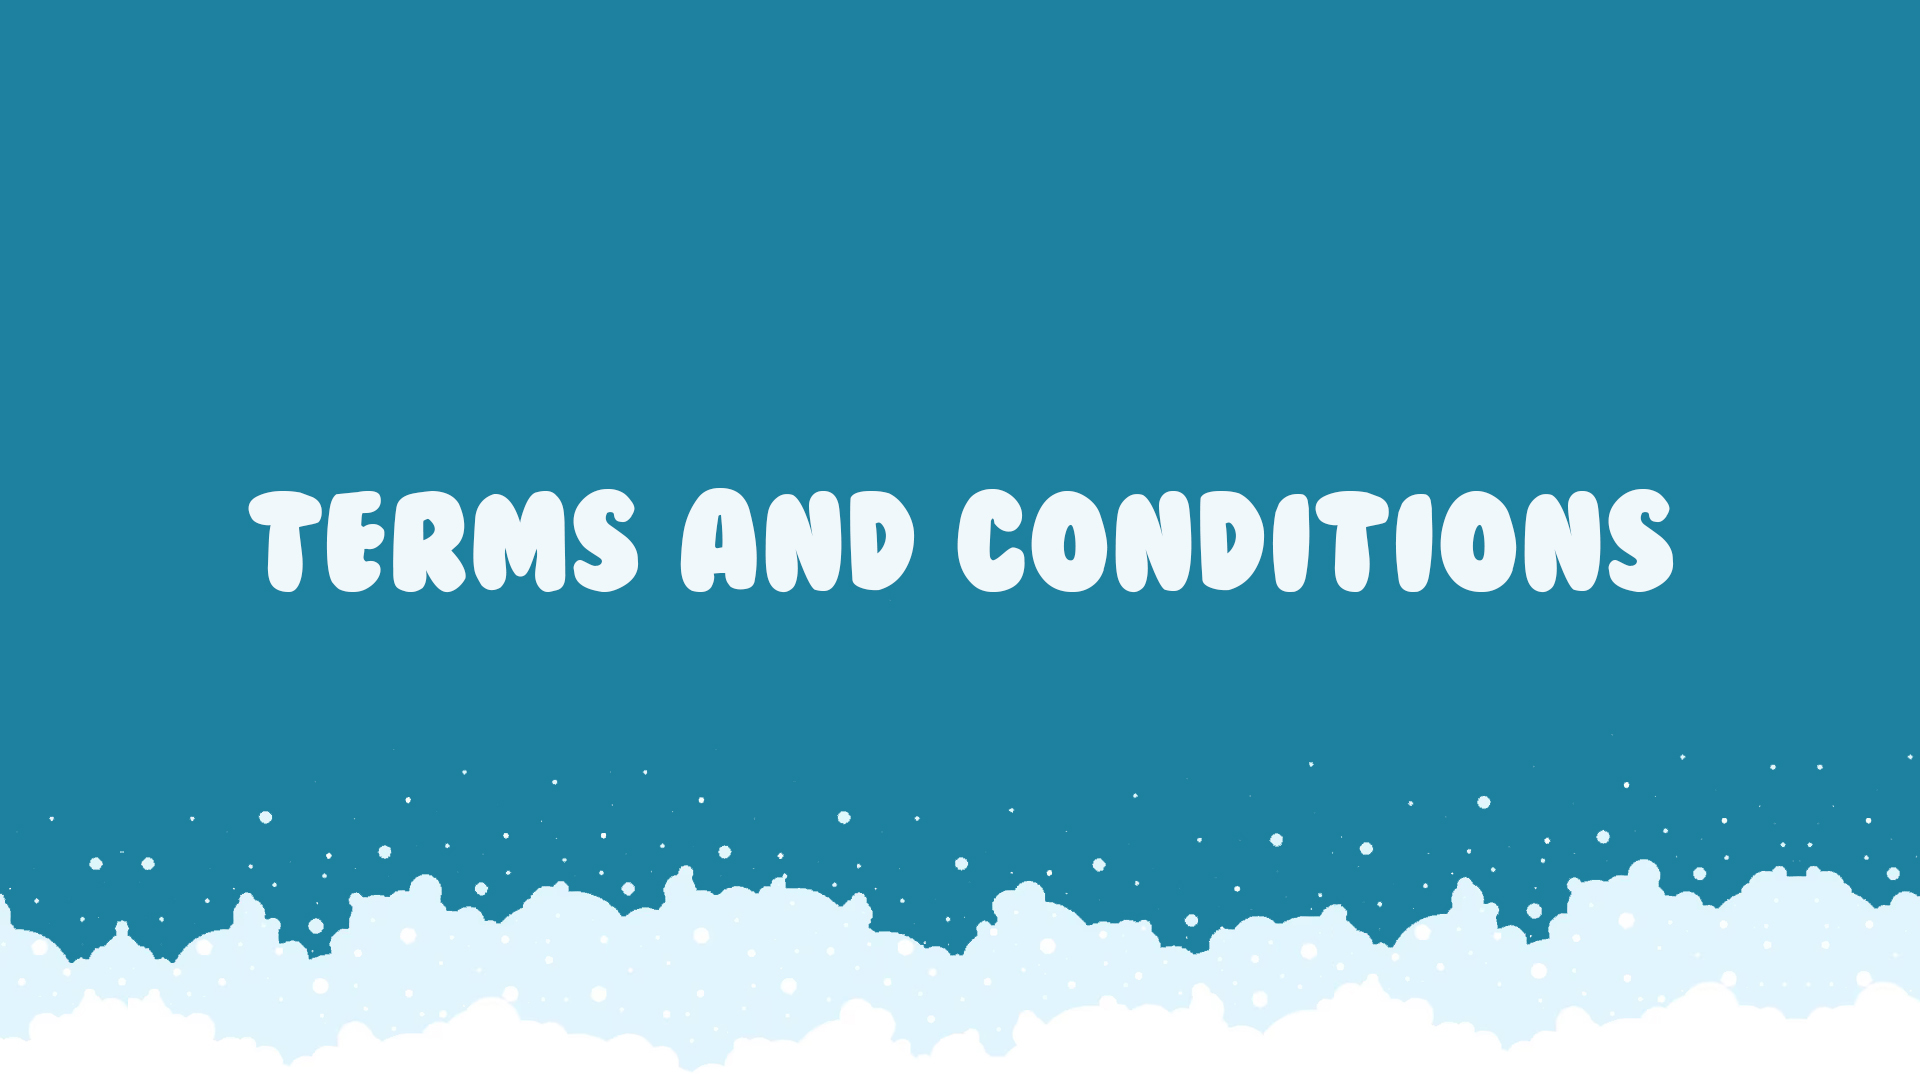
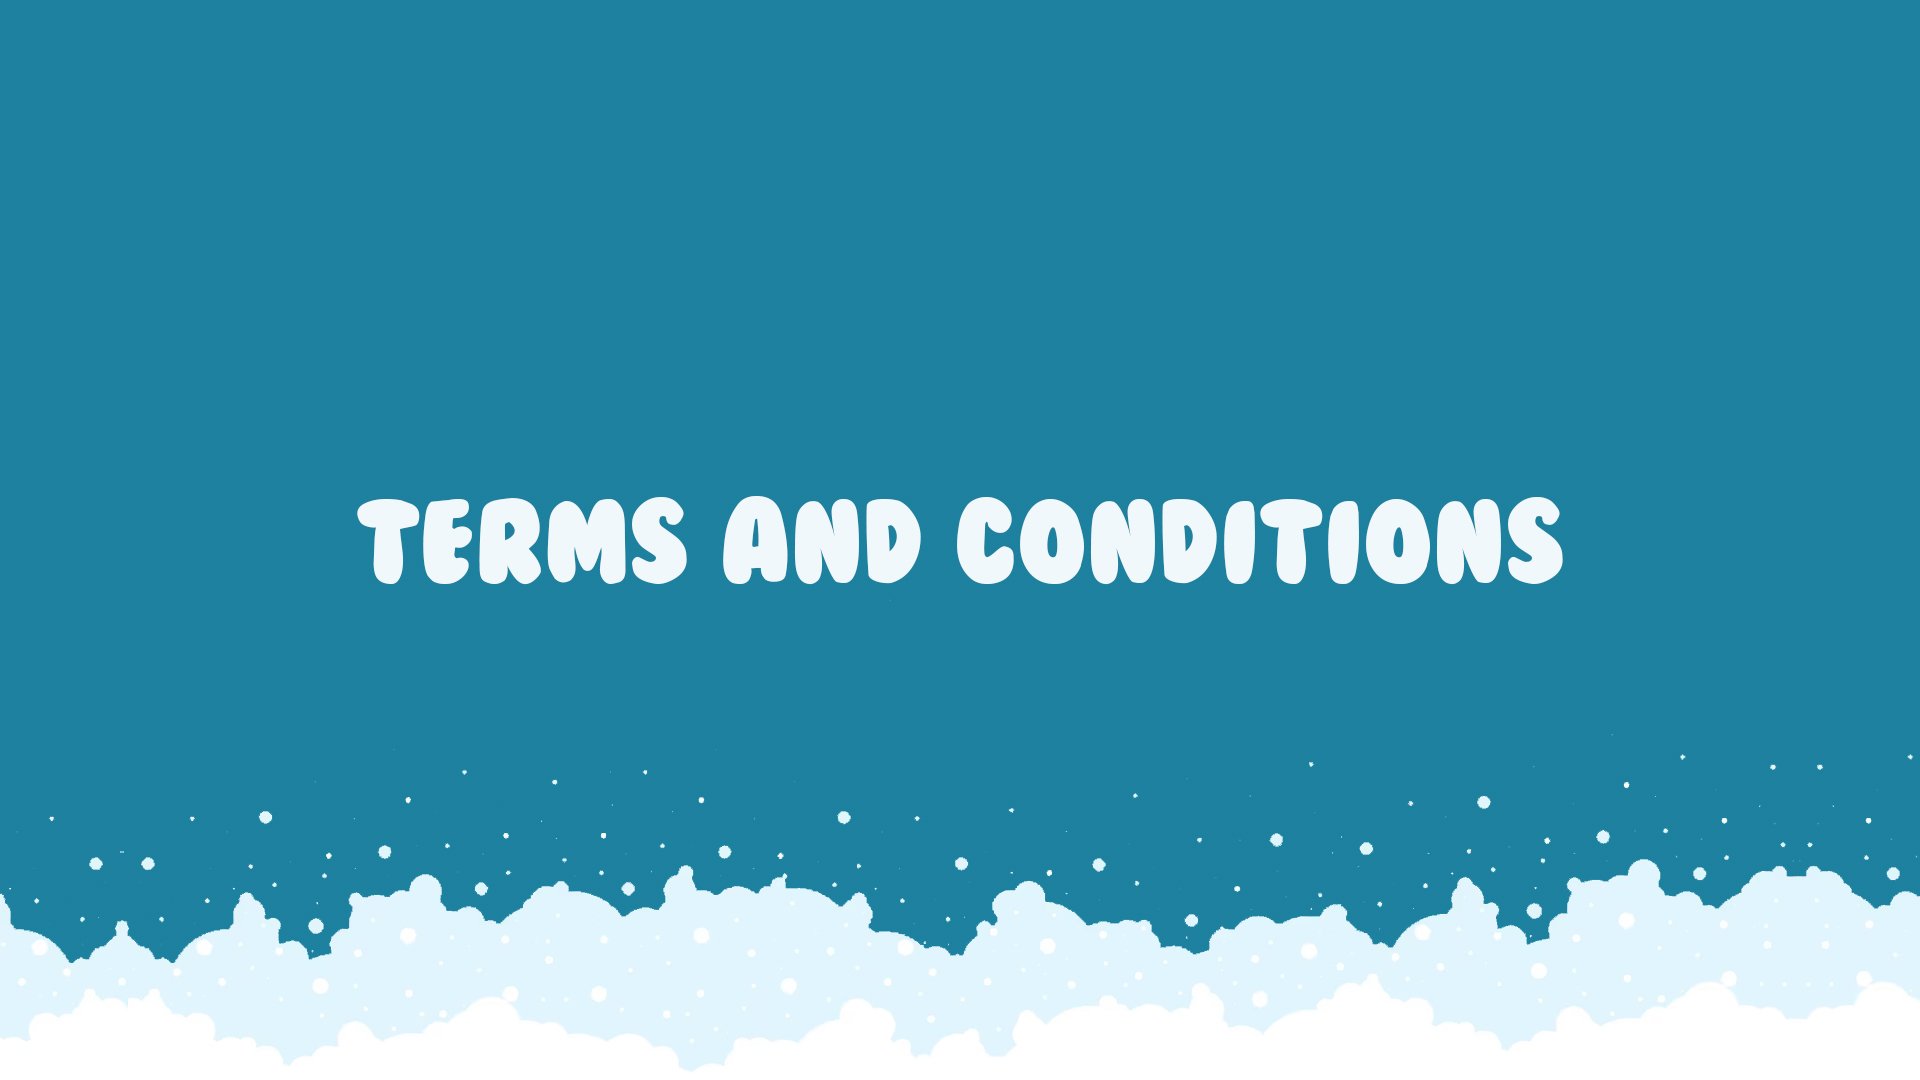
Huge translation fixes

Changed region(s): [[0.125, 0.4583, 0.875, 0.55]]

diff --git a/css/styles.css b/css/styles.css
@@ -10911,6 +10911,20 @@ footer.footer .social-link:hover {
   }
 }
 
+.mastheaden {
+  min-height: 310px; /* Altura fixa para desktops, ajuste conforme necessário */
+  background: url('../assets/img/bg-masthead5en.jpg') no-repeat bottom center;
+  background-size: cover;
+  transition: background 0.3s; /* Transição suave para mudanças de tamanho de fundo */
+}
+
+@media (max-width: 768px) { /* Para telas pequenas (dispositivos móveis) */
+.mastheaden {
+    background-position: top center; /* Ajusta a posição do fundo para dispositivos móveis */
+    height: auto;
+}
+}
+
 .mastheadpriv {
   min-height: 315px; /* Altura fixa para desktops, ajuste conforme necessário */
   background: url('../assets/img/politicaprivacidade.jpg') no-repeat bottom center;
@@ -11005,6 +11019,20 @@ footer.footer .social-link:hover {
     height: 80vh;
   }
   .masthead h1, .masthead .h1 {
+    font-size: 5.5rem;
+  }
+}
+
+.mastheaden h1, .mastheaden .h1 {
+  font-size: 4rem;
+  margin: 0;
+  padding: 0;
+}
+@media (min-width: 992px) {
+  .mastheaden {
+    height: 80vh;
+  }
+  .mastheaden h1, .mastheaden .h1 {
     font-size: 5.5rem;
   }
 }

diff --git a/index_en.html b/index_en.html
@@ -22,7 +22,7 @@
     </head>
     <body id="page-top">
         <!-- Header-->
-        <header class="masthead d-flex align-items-center">
+        <header class="mastheaden d-flex align-items-center">
             <select id="languageSelect" onchange="changeLanguage(this)">
                 <option value="index_pt.html">Português</option>
                 <option value="index_en.html">English</option>
